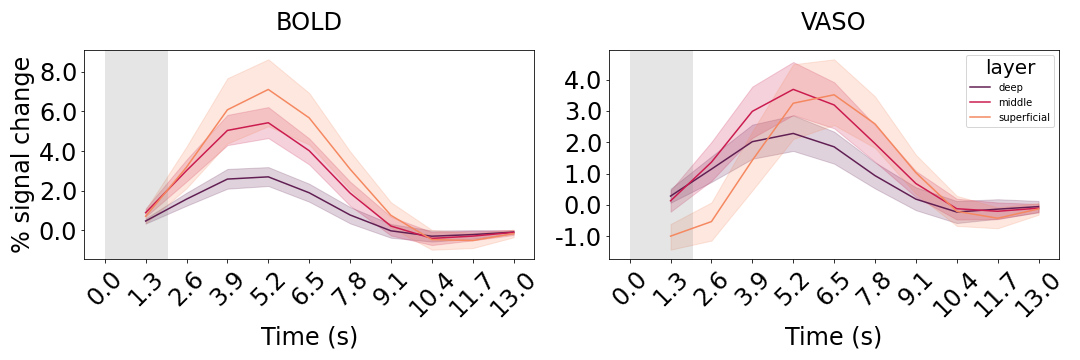
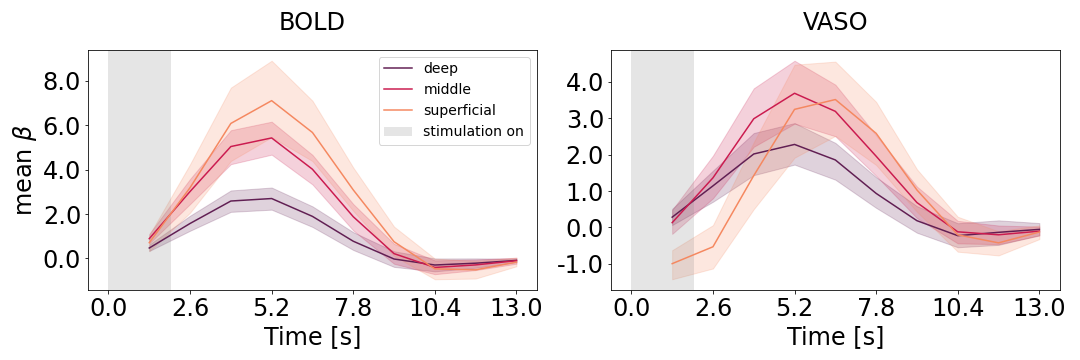
add comments

diff --git a/code/extractEventTimecourses.py b/code/extractEventTimecourses.py
@@ -366,10 +366,10 @@ FIRdata = pd.DataFrame({'subject':subList, 'run':runList, 'layer':layerList, 'mo
 
 
 FIRdata.to_csv('../results/FIR_results.csv',index=False)
-FIRdata = pd.read_csv('../results/FIR_results.csv')
+FIRdata = pd.read_csv('/Users/sebastiandresbach/git/eventRelatedVASO/results/FIR_results.csv')
 
 # for sub in ['sub-06', 'sub-07','sub-08', 'sub-09', 'sub-13', 'sub-14']:
-for sub in ['sub-12']:
+for sub in ['sub-14']:
     fig, axes = plt.subplots(1,2)
     for i, modality in enumerate(['BOLD', 'VASO']):
         tmp = FIRdata.loc[(FIRdata['modality']==modality)&(FIRdata['subject']==sub)]
@@ -404,7 +404,7 @@ for focus, cmap in zip(['v1','s1'],palettes):
     fig, ax  = plt.subplots()
     sns.lineplot(data=FIRdata.loc[FIRdata['focus']==focus], x="volume", y="data", hue='modality',palette=cmap)
     plt.title('Group Finite Impulse Response', fontsize=24, pad=20)
-    plt.ylabel(r'% signal change', fontsize=24)
+    plt.ylabel(r'mean $ \beta $', fontsize=24)
     yLimits = ax.get_ylim()
 
     plt.ylim(0,yLimits[1])
@@ -413,12 +413,12 @@ for focus, cmap in zip(['v1','s1'],palettes):
     ticks = range(0,11)
     labels = (np.arange(0,11)*1.3).round(decimals=1)
 
-    plt.xticks(ticks, labels, fontsize=16, rotation=45)
-    plt.xlabel('Time (s)', fontsize=24)
+    plt.xticks(ticks[::2], labels[::2], fontsize=16)
+    plt.xlabel('Time [s]', fontsize=24)
 
     plt.axvspan(0, 2/1.3, color='grey', alpha=0.2, lw=0, label = 'stimulation on')
     plt.legend(loc='upper right', fontsize=14)
-    plt.savefig(f'{root}/Group_{focus}_FIR.png', bbox_inches = "tight")
+    plt.savefig(f'/Users/sebastiandresbach/git/eventRelatedVASO/results/Group_{focus}_FIR.png', bbox_inches = "tight")
 
     plt.show()
 
@@ -590,9 +590,9 @@ palettes = [palette1,palette2]
 fig, axes = plt.subplots(1,2, figsize=(15,5))
 
 for i, (modality,palette) in enumerate(zip(['BOLD','VASO'],palettes)):
-    sns.lineplot(ax = axes[i], data=FIRdata.loc[(FIRdata['focus']=='v1')&(FIRdata['modality']==modality)], x="volume", y="data", hue='layer', palette=palette)
+    sns.lineplot(ax = axes[i], data=FIRdata.loc[(FIRdata['focus']=='v1')&(FIRdata['modality']==modality)], x="volume", y="data", hue='layer', palette='rocket')
 
-    axes[i].set_xlabel('Time (s)', fontsize=24)
+    axes[i].set_xlabel('Time [s]', fontsize=24)
 
 
     axes[i].set_title(modality, fontsize=24, pad=20)
@@ -600,19 +600,19 @@ for i, (modality,palette) in enumerate(zip(['BOLD','VASO'],palettes)):
 
     ticks = range(0,11)
     labels = (np.arange(0,11)*1.3).round(decimals=1)
-    axes[i].set_xticks(ticks)
-    axes[i].set_xticklabels(labels,fontsize=24,rotation=45)
+    axes[i].set_xticks(ticks[::2])
+    axes[i].set_xticklabels(labels[::2],fontsize=24)
 
     plt.setp(axes[i].get_yticklabels(), fontsize=24)
     axes[i].yaxis.set_major_formatter(FormatStrFormatter('%.1f'))
 
 
-plt.rcParams['legend.title_fontsize'] = 20
-axes[0].legend().remove()
-axes[0].set_ylabel(r'% signal change', fontsize=24)
+axes[1].legend().remove()
+axes[0].legend(loc = 'upper right',fontsize=14)
+axes[0].set_ylabel(r'mean $ \beta $', fontsize=24)
 axes[1].set_ylabel('', fontsize=24)
 plt.tight_layout()
-plt.savefig('../results/new_layers.png')
+plt.savefig('/Users/sebastiandresbach/git/eventRelatedVASO/results/new_layers.png')
 plt.show()
 
 

diff --git a/code/02_mocoCoregistration.py b/code/02_mocoCoregistration.py
@@ -140,10 +140,10 @@ for sub in ['sub-09']:
         pd_ses.to_csv(f'{outFolder}/motionParameters/{base}_motionParameters.csv', index=False)
 
 
-
         os.system(f'/home/sebastian/abin/3dTcat -prefix {outFolder}/{base}_combined.nii  {outFolder}/{base}_moco_notnulled.nii {outFolder}/{base}_moco_nulled.nii -overwrite')
-
+        # Calculating T1w image in EPI space for each run
         os.system(f'/home/sebastian/abin/3dTstat -cvarinv -overwrite -prefix {outFolder}/{base}_T1w.nii {outFolder}/{base}_combined.nii')
+        # Running biasfieldcorrection
         os.system(f'/home/sebastian/antsInstallExample-master/install/bin/N4BiasFieldCorrection -d 3 -i {outFolder}/{base}_T1w.nii -o {outFolder}/{base}_T1w_N4Corrected.nii')
 
     ############################################################################
@@ -221,7 +221,7 @@ for sub in ['sub-09']:
                 ants.image_write(mywarpedimage, f'{outFolder}/{base}_{modality}_vol{i:03d}.nii')
 
             newData = np.zeros(data.shape)
-    
+
 
             for i in range(data.shape[-1]):
                 vol = nb.load(f'{outFolder}/{base}_{modality}_vol{i:03d}.nii').get_fdata()
